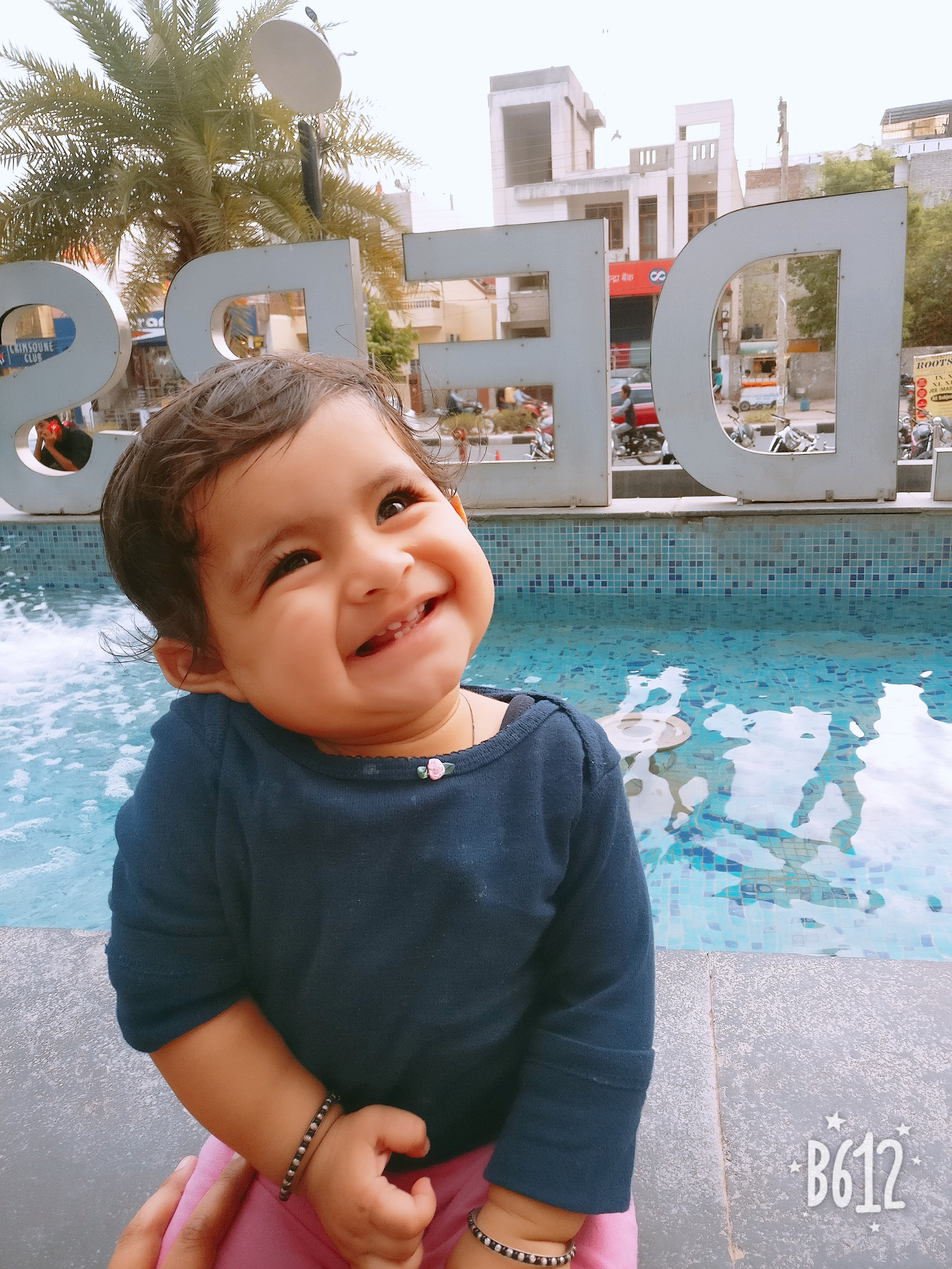
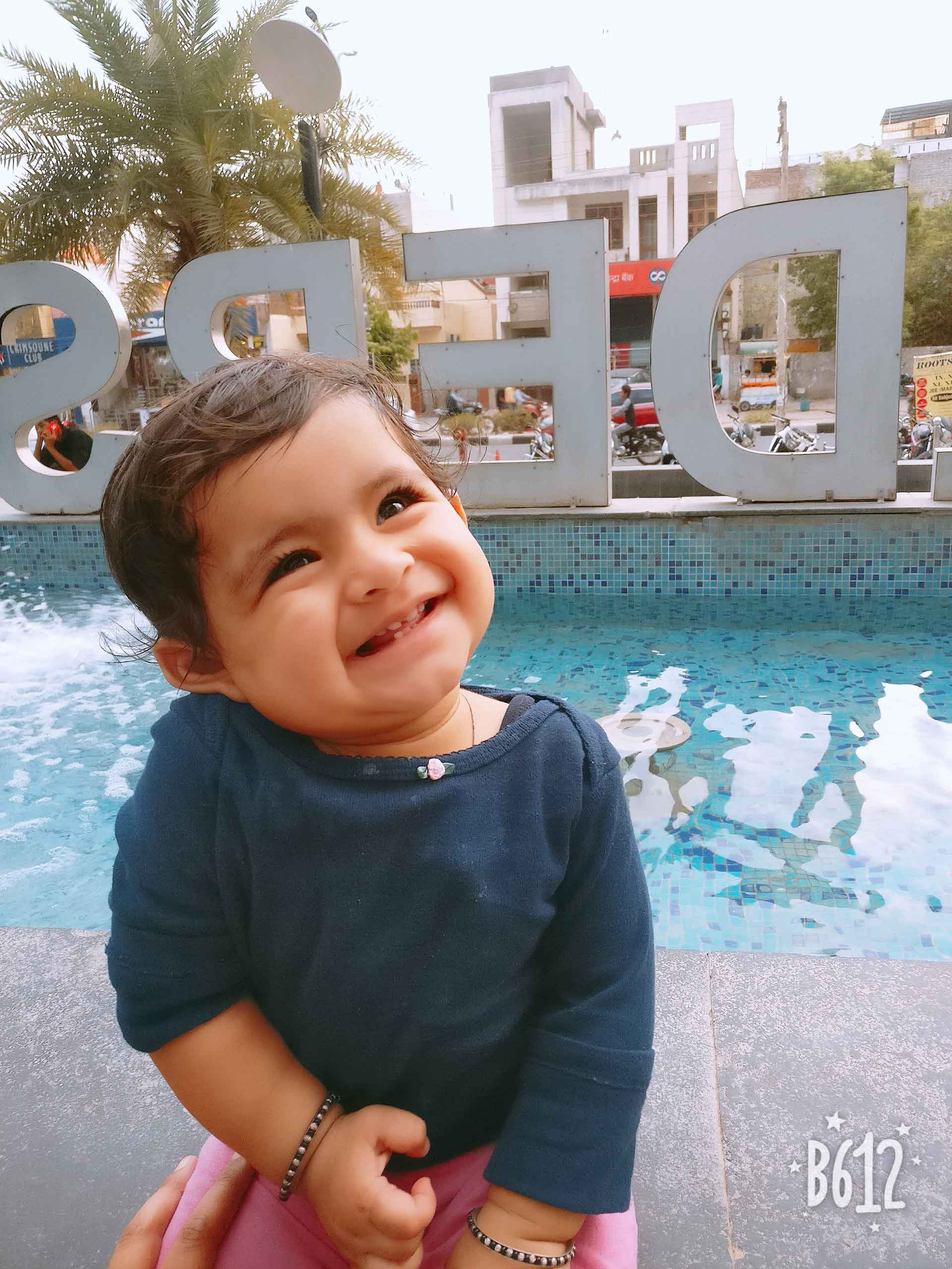
optimized images

diff --git a/style.css b/style.css
@@ -1503,20 +1503,6 @@ li {
     background-size: cover;
 }
 
-.parallax-mid { 
-    /* The image used */
-    background-image: url("img/inv1.jpeg");
-
-    /* Set a specific height */
-    height: 900px; 
-
-    /* Create the parallax scrolling effect */
-    background-attachment: fixed;
-    background-position: center;
-    background-repeat: no-repeat;
-    background-size: cover;
-}
-
 /* Turn off parallax scrolling for all tablets and phones. Increase/decrease the pixels if needed */
 @media only screen and (max-device-width: 1366px) {
     .parallax, .parallax-mid {
